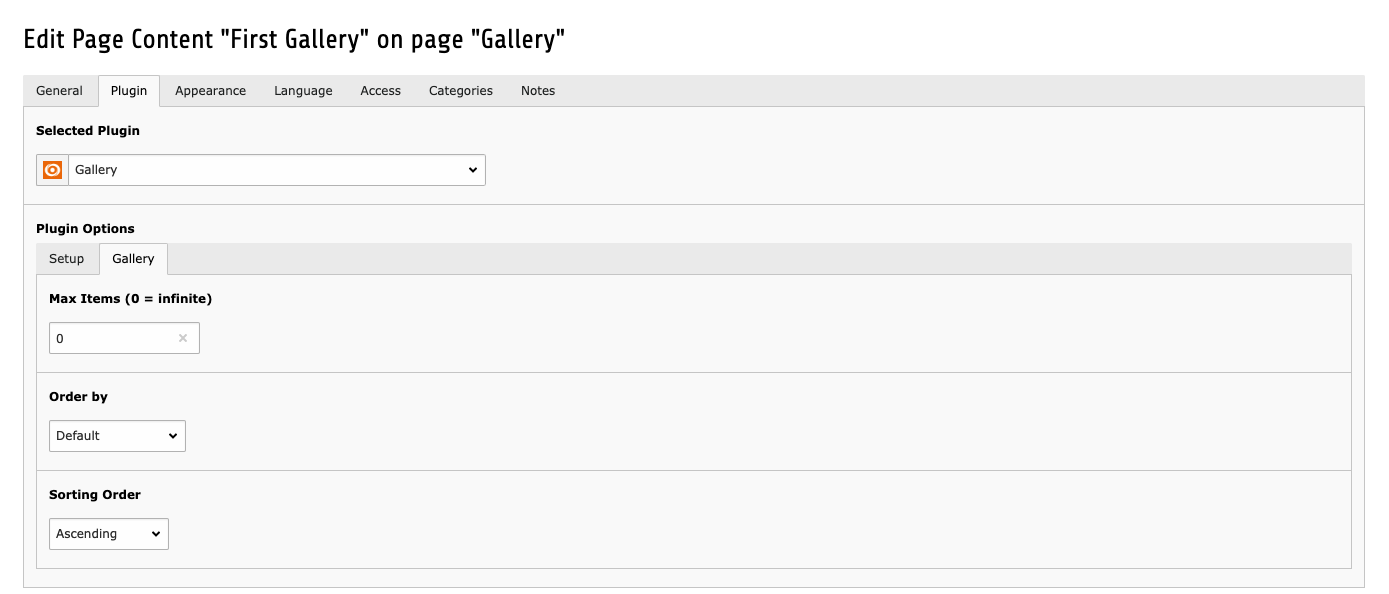
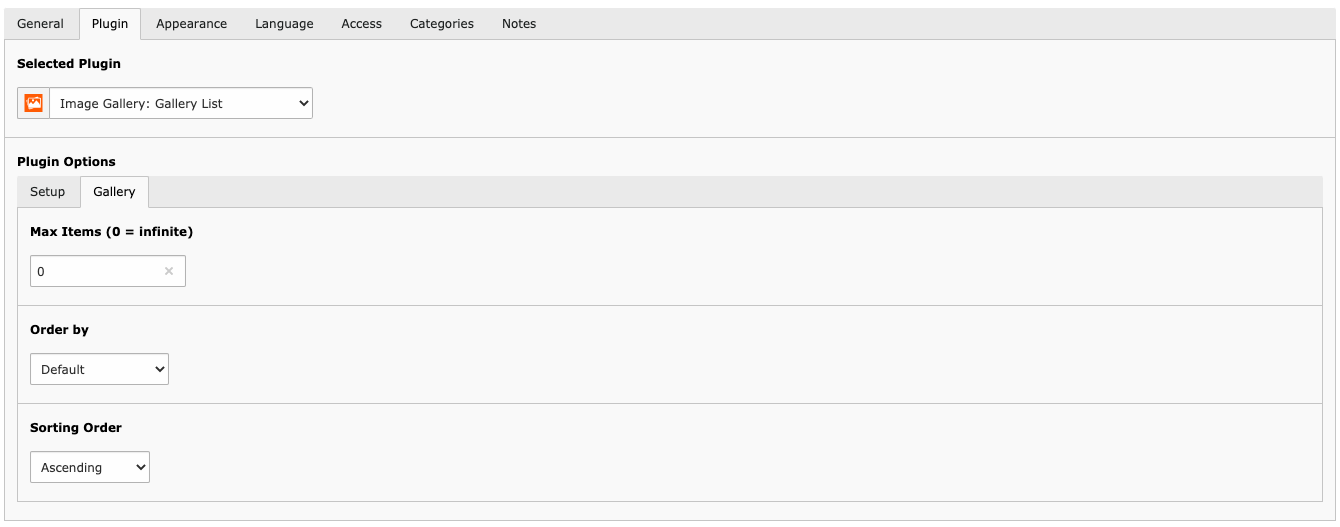
[DOC] Update images

diff --git a/Documentation/Editor/Index.rst b/Documentation/Editor/Index.rst
@@ -6,7 +6,9 @@
 For Editors
 ===========
 
-The 'Simple Image Gallery' Plugin provides various options to cover different scenarios.
+The 'Simple Image Gallery' plugins provide various options to cover different scenarios.
+
+.. _editor-quickAndEasy:
 
 Quick & Easy
 ============
@@ -22,16 +24,23 @@ The easiest way to get an front end output of your gallery is to follow these st
 
 2. Add plug in
 
-   Add a 'Simple Image Gallery' Plugin on the page where you want to show your gallery.
+   Add a 'General Plugin' content elmement on the page where you want to show your gallery.
 
    .. figure:: Images/add-plugin.png
       :class: with-shadow
       :alt: Backend view of EXT:bm_image_gallery plugin
 
-   Backend view of plugin configuration.
+   Backend view of the "new content element" wizard.
 
+3. Select the proper plugin
 
-3. Add reference
+   .. figure:: Images/select-plugin.png
+      :class: with-shadow
+      :alt: Select the proper EXT:bm_image_gallery plugin
+
+   You have to choose the proper plugin type that fits your.
+
+4. Add reference
 
    Add references to your file collections in the 'File Collection' section.
 
@@ -53,6 +62,7 @@ The easiest way to get an front end output of your gallery is to follow these st
 
    Backend view of plugin for limiting number of images and sorting.
 
+.. _editor-possibleScenarios:
 
 Possible Scenarios
 ==================
@@ -62,34 +72,26 @@ There are the following scenarios to display galleries:
 List of Galleries w/ Gallery View on Same Page
 ----------------------------------------------
 
-For that set:
-
-* **'Display Mode'** -> **'List'**
-* **'Detail View'** -> **'Same Page'**
+For that choose the "Image Gallery: Gallery List" plugin and select "Same Page" as "Detail View" option.
 
 List of Galleries w/ Gallery View on a Different Page
 -----------------------------------------------------
 
-Recommended for multiple plug ins on the same page.
-For that set:
+.. note::
 
-* **'Display Mode'** -> **'List'**
-* **'Detail View'** -> **'Selected Page'**
-* **Create a reference** to another page (target page).
-* **Create a 'Simple Image Gallery' Plugin** on the target page.
-* Inside the plugin on the target page set **'Display Mode' -> 'Gallery View'**
+   This scenario is recommended for multiple plugins on the same page.
+
+For that choose the "Image Gallery: Gallery List" plugin and select "Selected Page" as "Detail View" option. After an automatic
+reload, you will find an additional configuration option "Gallery Page" at the bottom of the screen. Please add a reference to the
+target detail page here. Save the plugin and navigate to the page just selected.
+Create a new plugin of type "Image Gallery: Elements of Gallery". Now you are all set.
 
 List of Galleries w/o Gallery View
 ------------------------------------
 
-For that set:
-
-* **'Display Mode'** -> **'List'**
-* **'Detail View'** -> **'No Detail View'**
+For that choose the "Image Gallery: Gallery List" plugin and select "No Detail View" as "Detail View" option.
 
 Gallery View for a Single Gallery
 -----------------------------------
 
-For that set:
-
-* **'Display Mode'** -> **'Selected Gallery'**
+For that choose the "Image Gallery: Selected Gallery" plugin.
